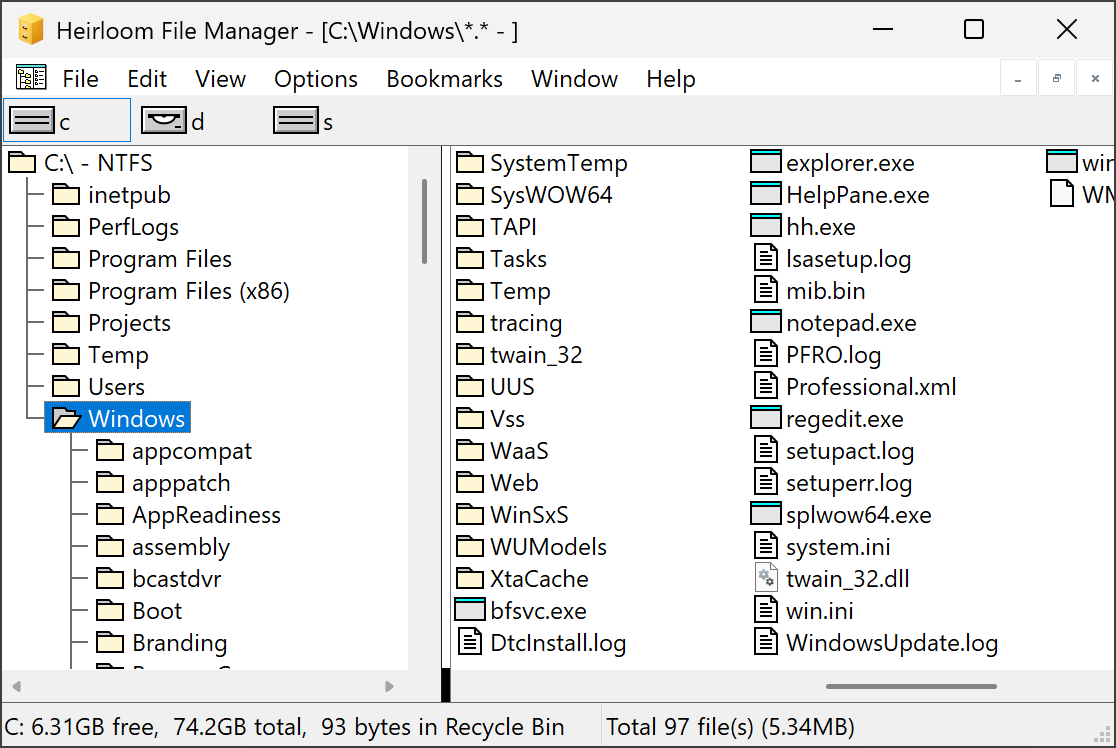
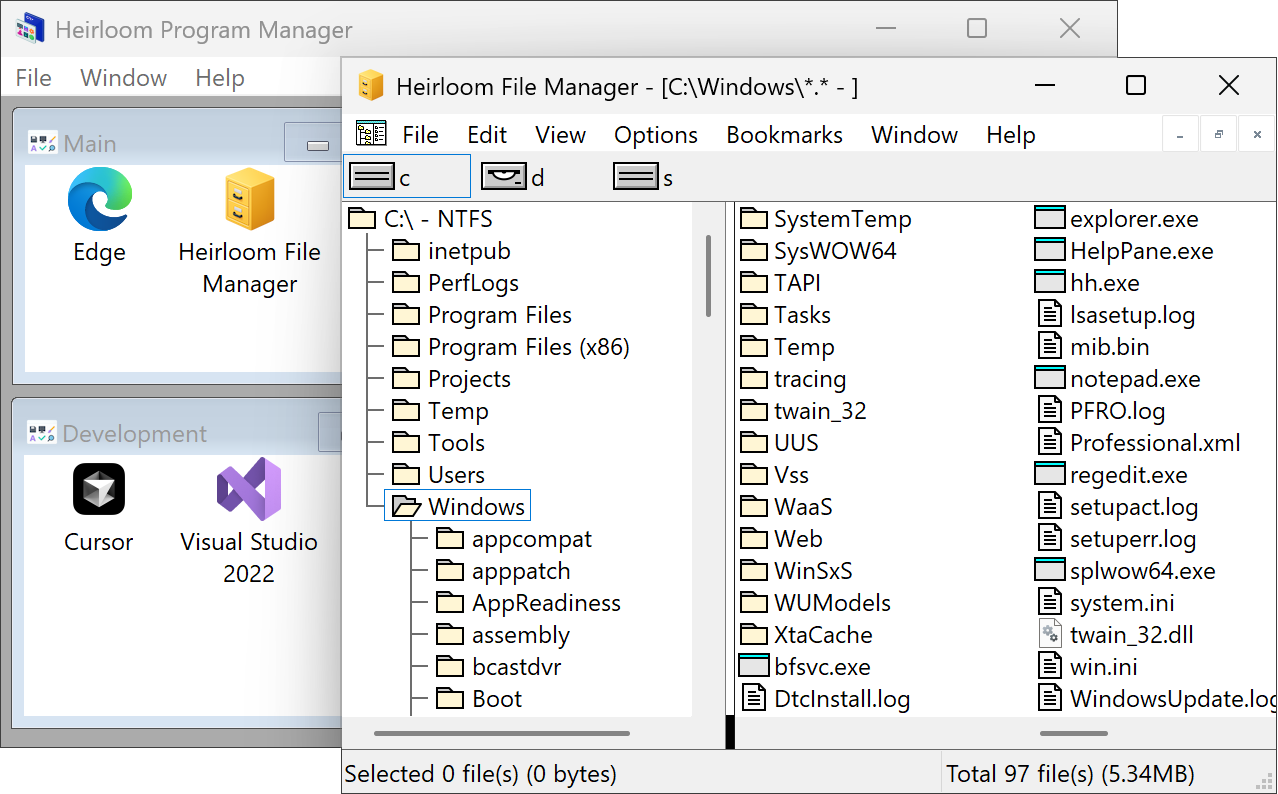
Update readme

diff --git a/.github/README.md b/.github/README.md
@@ -1,18 +1,19 @@
-<h1 align="center"><img src="icon_small.jpg" width=64><br>Heirloom File Manager</h1>
+<h1 align="center"><img src="progman.png" width=64>&nbsp;<img src="winfile.png" width=64><br>Heirloom apps</h1>
 
-<p align="center"><img src="screenshot.png" width=558></p>
+<h3 align="center">Lightly modernized classics for Windows</h3>
 
-A simple app for browsing, organizing, and manipulating files.
-It doesn't try to replace the modern File Explorer but offers a faster alternative for basic tasks.
+<p align="center"><img src="screenshot.png" width=639></p>
 
-This derivative of the [classic Windows File Manager (microsoft/winfile)](https://github.com/microsoft/winfile) adds the following features:
+### Heirloom Program Manager
+An alternative to the Start menu for launching shortcuts with the mouse. This is a reimplementation of the classic Program Manager.
+
+### Heirloom File Manager
+Browse, organize, and manipulate files. An alternative to File Explorer for basic tasks. This direct derivative of the [classic Windows File Manager](https://github.com/microsoft/winfile) adds the following features:
 
 - High-DPI screen support
 - Recycle Bin
 - Bookmarks
 - Drag-and-drop into external applications
-
-It also removes old features that are irrelevant today.
 
 ## Licenses
 
